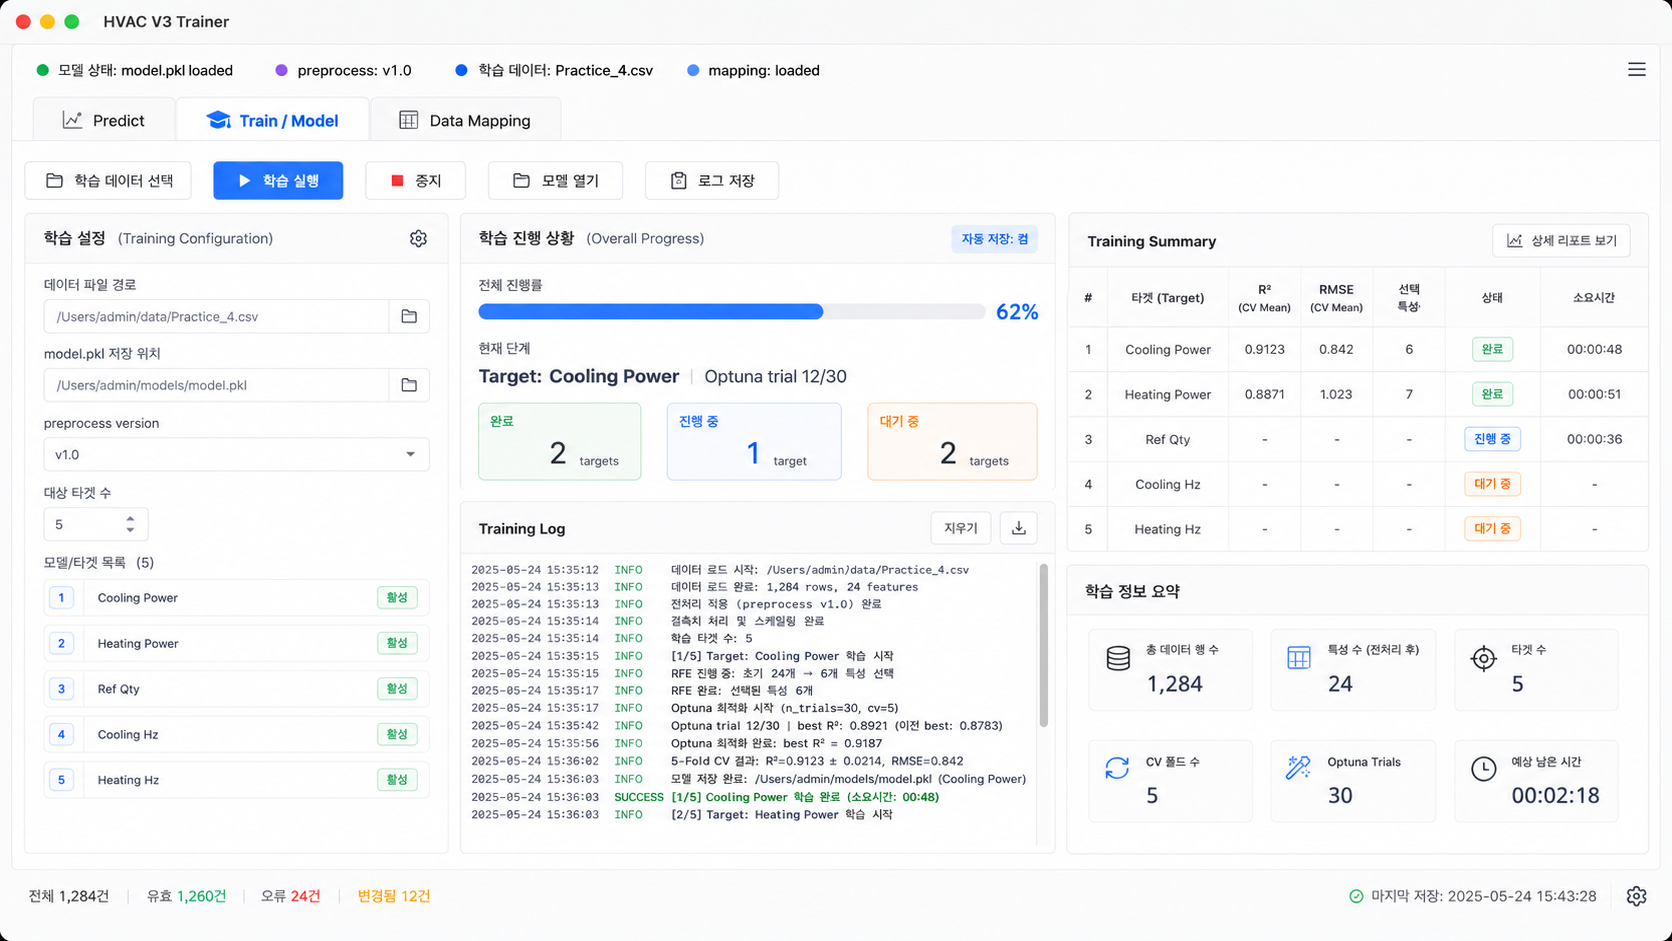
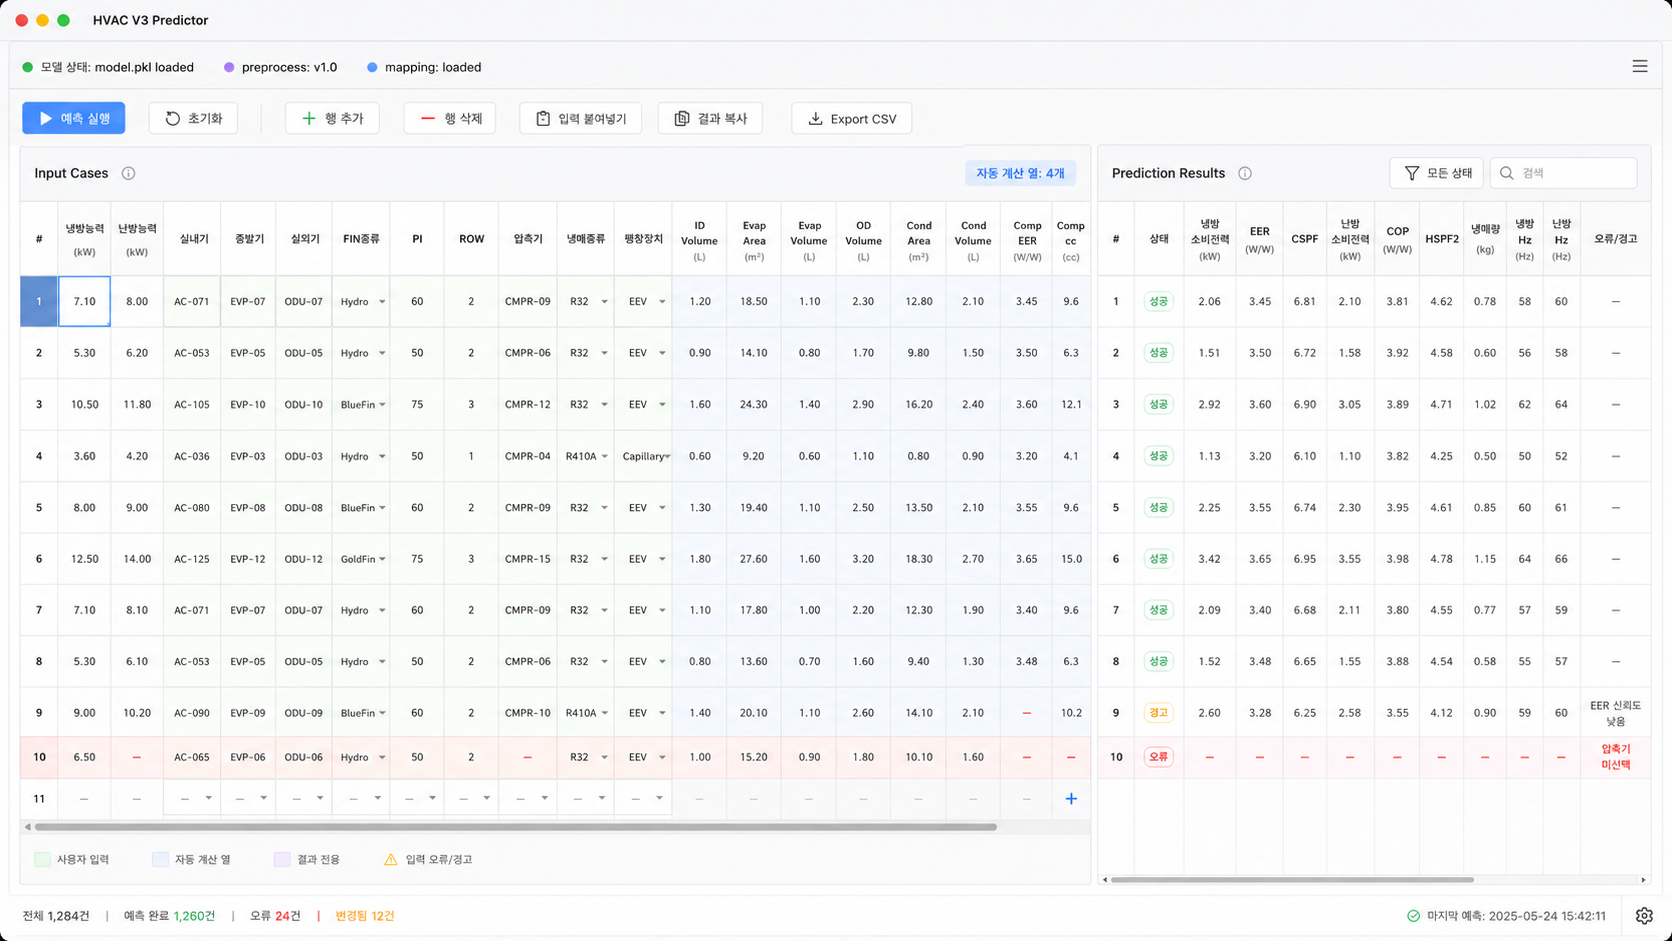
docs(designs): align train predict reference assets

diff --git a/result_reports/active/556_arc95-visual-parity-audit-plan.md b/result_reports/active/556_arc95-visual-parity-audit-plan.md
@@ -27,14 +27,12 @@ then fix the Arc 9.5 implementation slice plan.
 Both assets exist and were visually inspected:
 
 - `docs/designs/assets/predict_ref_img.png`: 1672 x 941 PNG; visually shows an
-  HVAC V3 Trainer / Train Model style screen.
-- `docs/designs/assets/train_ref_img.png`: 1672 x 941 PNG; visually shows an
   HVAC V3 Predictor screen.
+- `docs/designs/assets/train_ref_img.png`: 1672 x 941 PNG; visually shows an
+  HVAC V3 Trainer / Train Model style screen.
 
-The filenames appear swapped relative to the window titles. This arc will keep
-the repository paths unchanged and use the visual content as the acceptance
-reference by screen type. The target is layout density, hierarchy, grouping,
-and interaction parity, not pixel-perfect replication.
+The target is layout density, hierarchy, grouping, and interaction parity, not
+pixel-perfect replication.
 
 ## Current Implementation Audit
 

diff --git a/result_reports/active/562_arc95-visual-parity-closeout.md b/result_reports/active/562_arc95-visual-parity-closeout.md
@@ -74,9 +74,9 @@ Covered:
 
 Observed asset note:
 
-- `predict_ref_img.png` visually shows the Trainer/Train Model screen and
-  `train_ref_img.png` visually shows the Predictor screen. Paths were left
-  unchanged and the visual content was used by screen type.
+- Asset filenames now match their visual screen type: `predict_ref_img.png`
+  shows the Predictor screen and `train_ref_img.png` shows the Trainer /
+  Train Model screen.
 
 ## Excluded Scope
 
